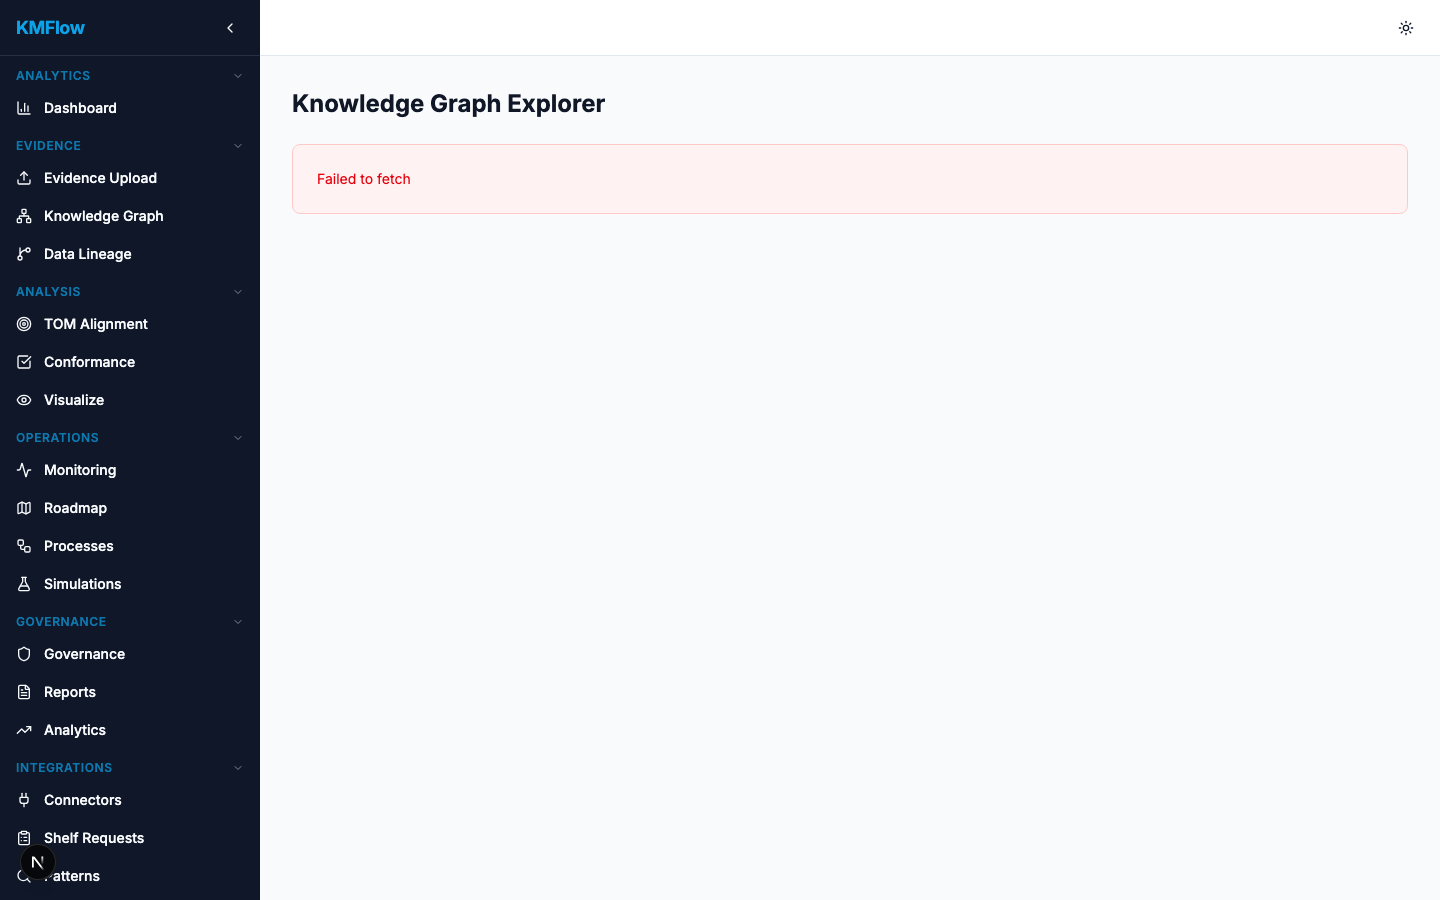
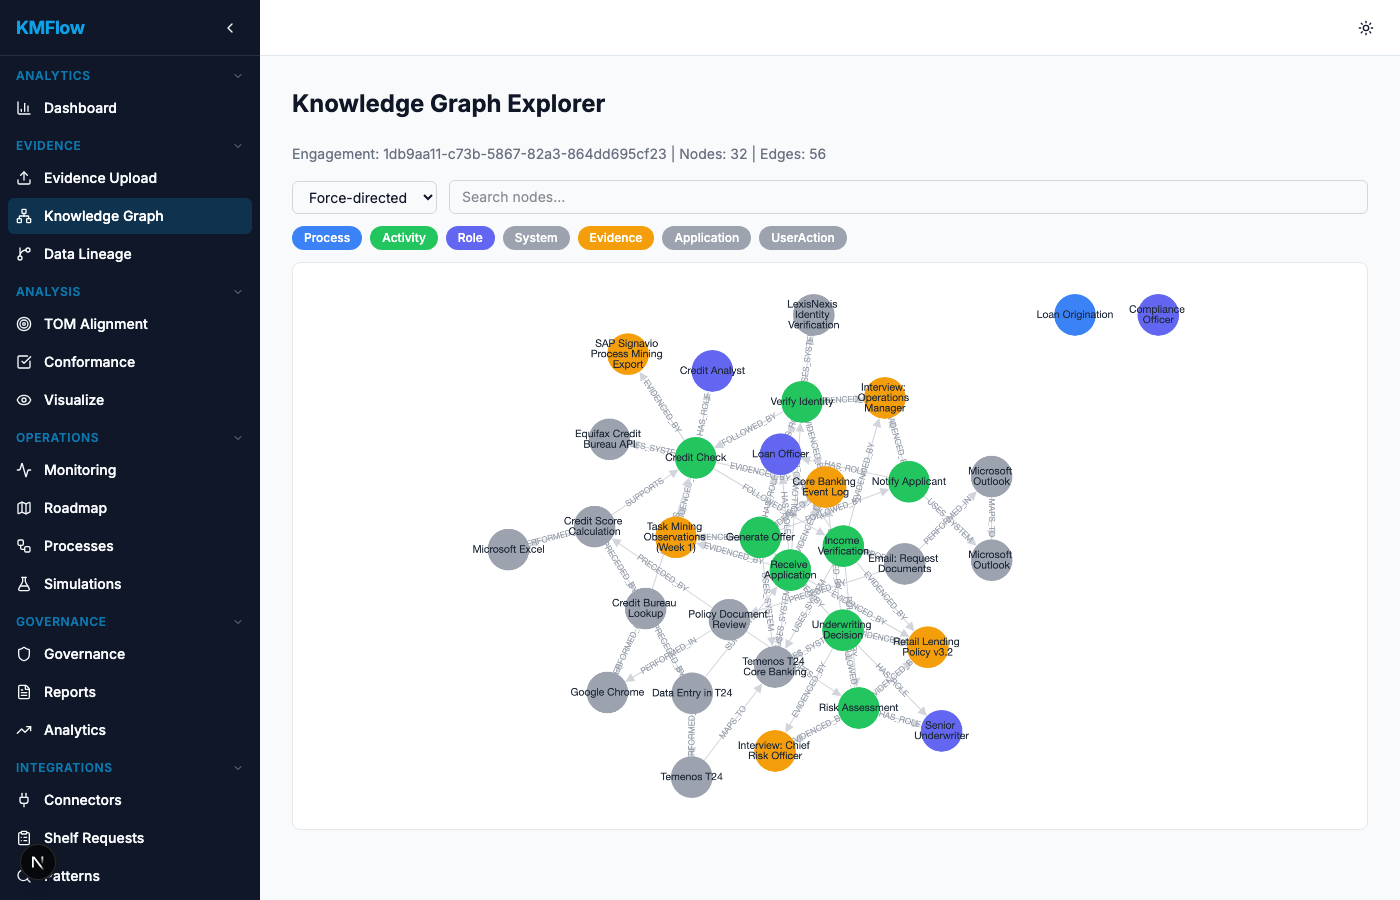
Fix Knowledge Graph empty edge IDs crashing Cytoscape (#562)
* Disable Next.js dev indicator overlay in development mode

The floating "N" icon in the bottom-left corner obscured sidebar navigation items.

* Fix Knowledge Graph empty edge IDs crashing Cytoscape rendering

The Cytoscape export endpoint returned empty string IDs for all edges
because Neo4j relationship objects aren't dicts — the isinstance check
fell through to rel_id="". Cytoscape.js threw "Can not create element
with invalid string ID" and rendered a blank graph.

Fix: add elementId(r) to the Cypher query as fallback edge ID. Also
retake all 3 Knowledge Graph screenshots (admin/lead/analyst) from the
real running app to replace the "Failed to fetch" error screenshots.

Closes #560

---------

diff --git a/frontend/next.config.js b/frontend/next.config.js
@@ -1,6 +1,7 @@
 /** @type {import('next').NextConfig} */
 const nextConfig = {
   output: "standalone",
+  devIndicators: false,
   modularizeImports: {
     "lucide-react": {
       transform: "lucide-react/dist/esm/icons/{{kebabCase member}}",

diff --git a/src/semantic/graph.py b/src/semantic/graph.py
@@ -663,7 +663,8 @@ class KnowledgeGraphService:
         # Get all relationships between engagement nodes
         rel_query = """
         MATCH (a {engagement_id: $engagement_id})-[r]->(b {engagement_id: $engagement_id})
-        RETURN r, a.id AS from_id, b.id AS to_id, type(r) AS rel_type
+        RETURN r, a.id AS from_id, b.id AS to_id, type(r) AS rel_type,
+               elementId(r) AS rel_element_id
         LIMIT $limit
         """
         rel_records = await self._run_query(rel_query, {"engagement_id": engagement_id, "limit": limit})
@@ -671,12 +672,8 @@ class KnowledgeGraphService:
         relationships = []
         for record in rel_records:
             r = record["r"]
-            if isinstance(r, dict):
-                rel_id = r.get("id", "")
-                rel_props = dict(r)
-            else:
-                rel_id = ""
-                rel_props = {}
+            rel_props = dict(r) if isinstance(r, dict) else {}
+            rel_id = rel_props.pop("id", "") or record.get("rel_element_id", "")
             relationships.append(
                 GraphRelationship(
                     id=rel_id,
